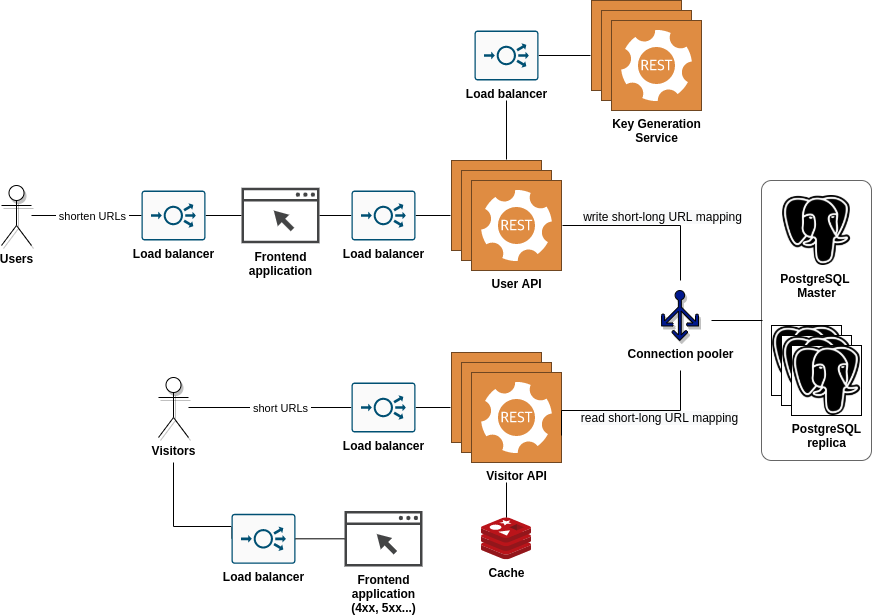
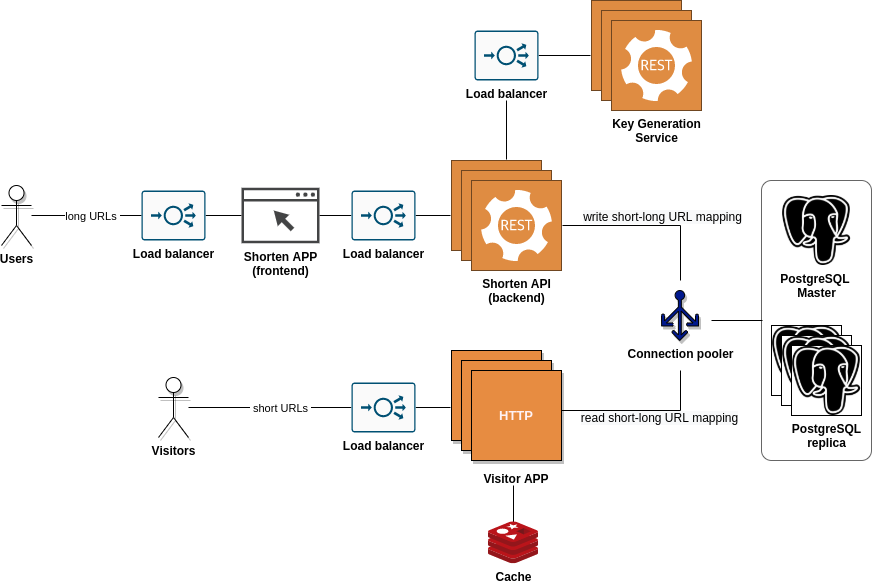
renaming

diff --git a/system_design/tinyurl/shorten-api/src/main/java/com/ewgra/shorten_api/ShortenApiApplication.java b/system_design/tinyurl/shorten-api/src/main/java/com/ewgra/shorten_api/ShortenApiApplication.java
@@ -1,4 +1,4 @@
-package com.ewgra.user_api;
+package com.ewgra.shorten_api;
 
 import org.springframework.beans.factory.annotation.Value;
 import org.springframework.boot.SpringApplication;
@@ -10,10 +10,10 @@ import org.springframework.web.servlet.config.annotation.WebMvcConfigurer;
 
 @SpringBootApplication
 @EnableRetry
-public class UserApiApplication {
+public class ShortenApiApplication {
 
     public static void main(String[] args) {
-        SpringApplication.run(UserApiApplication.class, args);
+        SpringApplication.run(ShortenApiApplication.class, args);
     }
 
     @Bean

diff --git a/system_design/tinyurl/shorten-api/src/main/java/com/ewgra/shorten_api/controller/ShortenController.java b/system_design/tinyurl/shorten-api/src/main/java/com/ewgra/shorten_api/controller/ShortenController.java
@@ -1,8 +1,8 @@
-package com.ewgra.user_api.controller;
+package com.ewgra.shorten_api.controller;
 
-import com.ewgra.user_api.model.UrlMap;
-import com.ewgra.user_api.repository.UrlMapRepository;
-import com.ewgra.user_api.service.KeyGenerationService;
+import com.ewgra.shorten_api.model.UrlMap;
+import com.ewgra.shorten_api.repository.UrlMapRepository;
+import com.ewgra.shorten_api.service.KeyGenerationService;
 import lombok.extern.slf4j.Slf4j;
 import org.springframework.beans.factory.annotation.Autowired;
 import org.springframework.beans.factory.annotation.Value;

diff --git a/system_design/tinyurl/shorten-api/src/test/java/com/ewgra/shorten_api/ShortenApiApplicationTests.java b/system_design/tinyurl/shorten-api/src/test/java/com/ewgra/shorten_api/ShortenApiApplicationTests.java
@@ -1,10 +1,10 @@
-package com.ewgra.user_api;
+package com.ewgra.shorten_api;
 
 import org.junit.jupiter.api.Test;
 import org.springframework.boot.test.context.SpringBootTest;
 
 @SpringBootTest
-class UserApiApplicationTests {
+class ShortenApiApplicationTests {
 
     @Test
     void contextLoads() {

diff --git a/system_design/tinyurl/shorten-api/src/main/java/com/ewgra/shorten_api/repository/UrlMapRepository.java b/system_design/tinyurl/shorten-api/src/main/java/com/ewgra/shorten_api/repository/UrlMapRepository.java
@@ -1,6 +1,6 @@
-package com.ewgra.user_api.repository;
+package com.ewgra.shorten_api.repository;
 
-import com.ewgra.user_api.model.UrlMap;
+import com.ewgra.shorten_api.model.UrlMap;
 import org.springframework.data.jpa.repository.JpaRepository;
 import org.springframework.stereotype.Repository;
 

diff --git a/system_design/tinyurl/shorten-api/src/main/java/com/ewgra/shorten_api/controller/HealthController.java b/system_design/tinyurl/shorten-api/src/main/java/com/ewgra/shorten_api/controller/HealthController.java
@@ -1,4 +1,4 @@
-package com.ewgra.user_api.controller;
+package com.ewgra.shorten_api.controller;
 
 import lombok.extern.slf4j.Slf4j;
 import org.springframework.http.HttpStatus;

diff --git a/system_design/tinyurl/shorten-api/src/main/java/com/ewgra/shorten_api/service/KeyGenerationService.java b/system_design/tinyurl/shorten-api/src/main/java/com/ewgra/shorten_api/service/KeyGenerationService.java
@@ -1,4 +1,4 @@
-package com.ewgra.user_api.service;
+package com.ewgra.shorten_api.service;
 
 import lombok.extern.slf4j.Slf4j;
 import org.apache.http.HttpResponse;

diff --git a/system_design/tinyurl/shorten-api/src/main/java/com/ewgra/shorten_api/model/UrlMap.java b/system_design/tinyurl/shorten-api/src/main/java/com/ewgra/shorten_api/model/UrlMap.java
@@ -1,4 +1,4 @@
-package com.ewgra.user_api.model;
+package com.ewgra.shorten_api.model;
 
 import lombok.Getter;
 import lombok.Setter;

diff --git a/system_design/tinyurl/README.md b/system_design/tinyurl/README.md
@@ -6,7 +6,6 @@
 Develop URL shortening web service, which provides short aliases for redirection of long URLs.
 
 # High-level design
-FIXME XXX
 ! NOTE: Implementation of Key Generation Service you can find here: 
 
 ![](docs/high-level-design.png)
